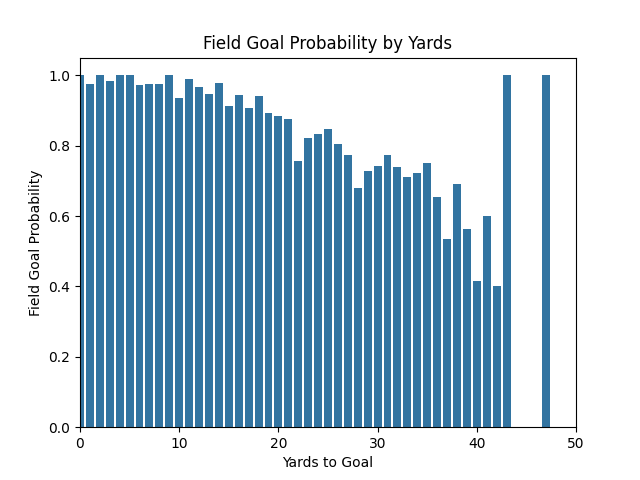
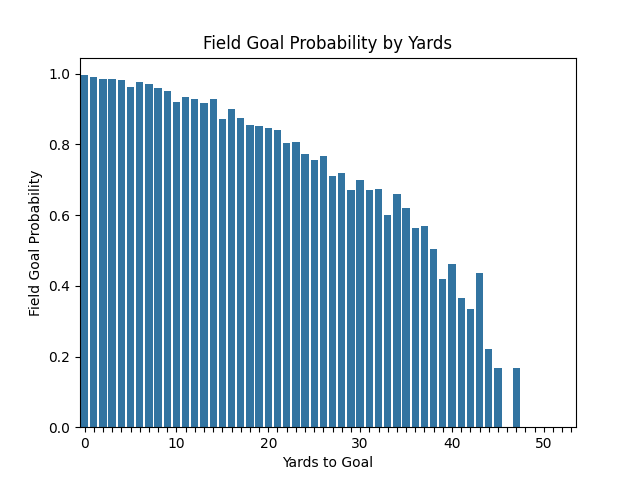
fix: field goal with all years

Changed region(s): [[0.0625, 0.125, 0.8125, 0.9375], [0.8438, 0.1562, 0.9062, 0.9375]]

diff --git a/field_goal.py b/field_goal.py
@@ -3,17 +3,49 @@ import nfldpw.pbp.cols as cols
 import matplotlib.pyplot as plt
 import seaborn
 import pandas
+from matplotlib.ticker import FuncFormatter
 
 
 CACHE = "cache/"
+YEARS = [
+    2002,
+    2003,
+    2004,
+    2005,
+    2006,
+    2007,
+    2008,
+    2009,
+    2010,
+    2011,
+    2012,
+    2013,
+    2014,
+    2015,
+    2016,
+    2017,
+    2018,
+    2019,
+    2020,
+    2021,
+    2022,
+    2023,
+]
 
 
 def field_goals(df: pandas.DataFrame) -> pandas.DataFrame:
     fgs = df[cols.PlayType.header] == cols.PlayType.FIELD_GOAL
-    df = df[fgs]
     df["fg_made"] = df[cols.FieldGoalResult.header] == cols.FieldGoalResult.MADE
+    df = df[fgs]
     df = df[[cols.Yardline100.header, "fg_made"]]
     return df
+
+
+def formatter(x, tick):
+    if x % 10 == 0:
+        return f"{int(x)}"
+    else:
+        return ""
 
 
 def plot_data(df: pandas.DataFrame):
@@ -21,12 +53,11 @@ def plot_data(df: pandas.DataFrame):
     plt.title("Field Goal Probability by Yards")
     plt.xlabel("Yards to Goal")
     plt.ylabel("Field Goal Probability")
-    plt.xticks(ticks=range(0, 100, 10), labels=range(0, 100, 10))
-    plt.xlim(0, 50)
+    plt.gca().xaxis.set_major_formatter(FuncFormatter(formatter))
     plt.savefig("figs/field_goal")
     plt.show()
 
 
-df = pbp.get([2021, 2022, 2023], CACHE)
+df = pbp.get(YEARS, CACHE)
 df = field_goals(df)
 plot_data(df)
